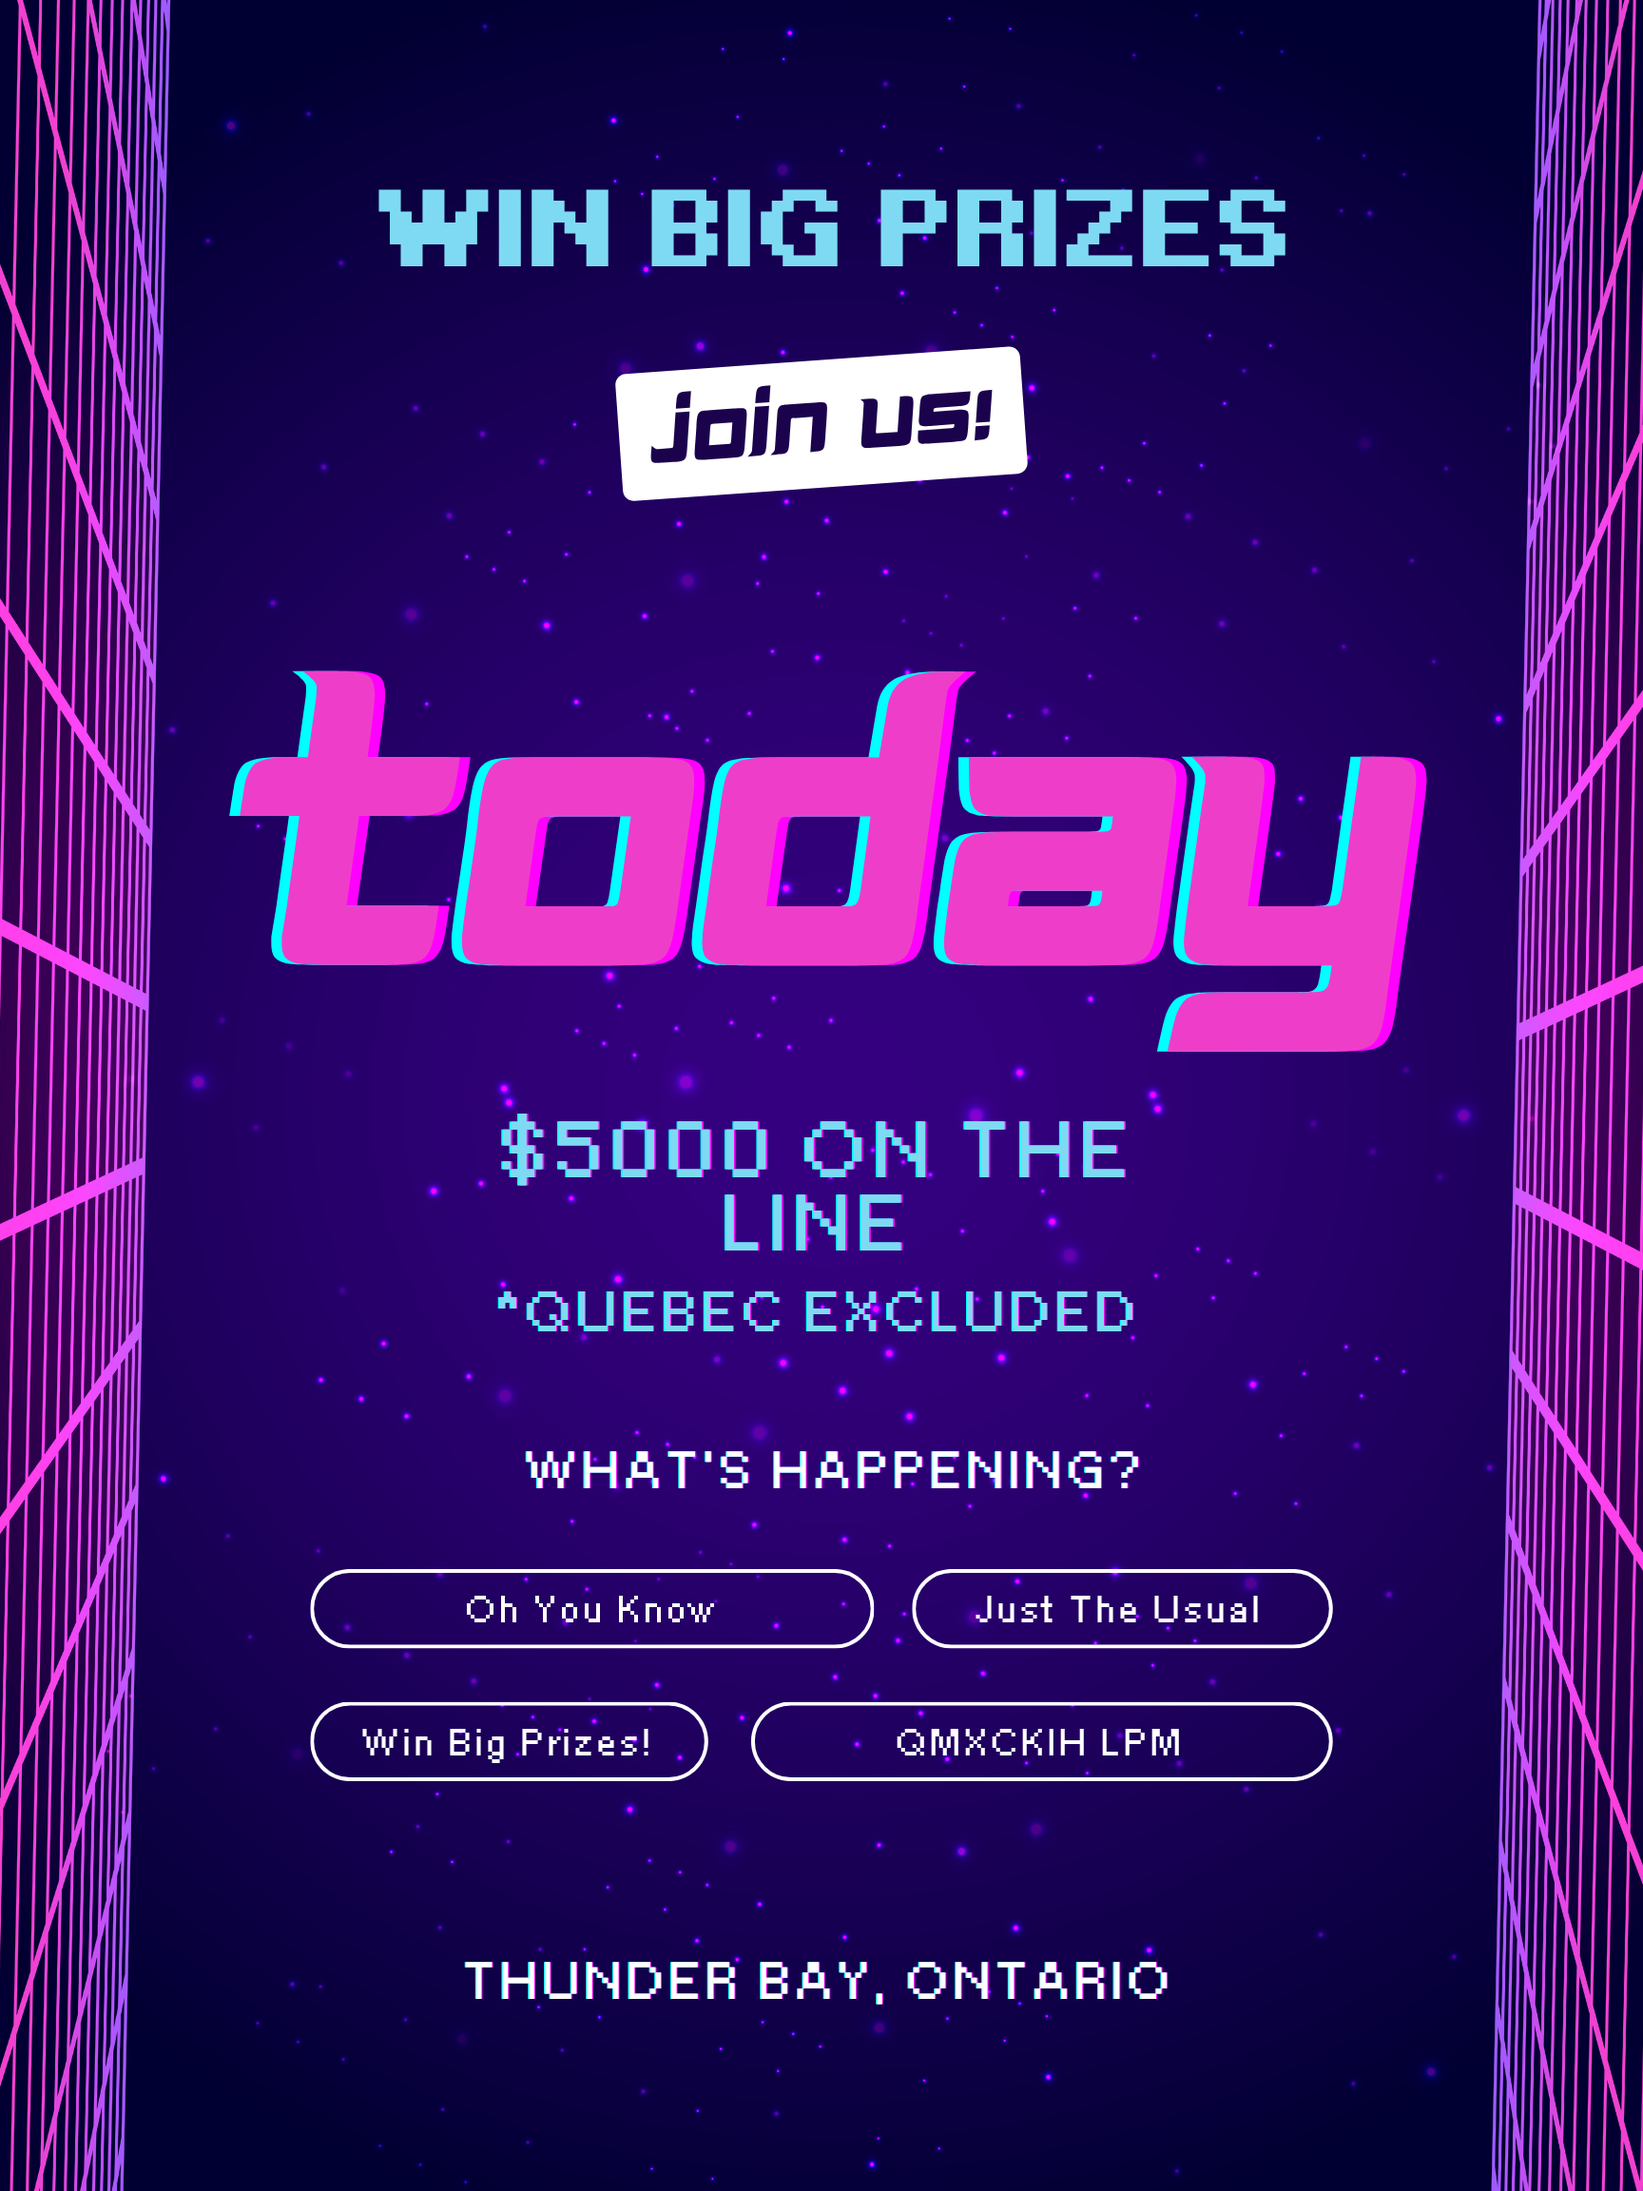
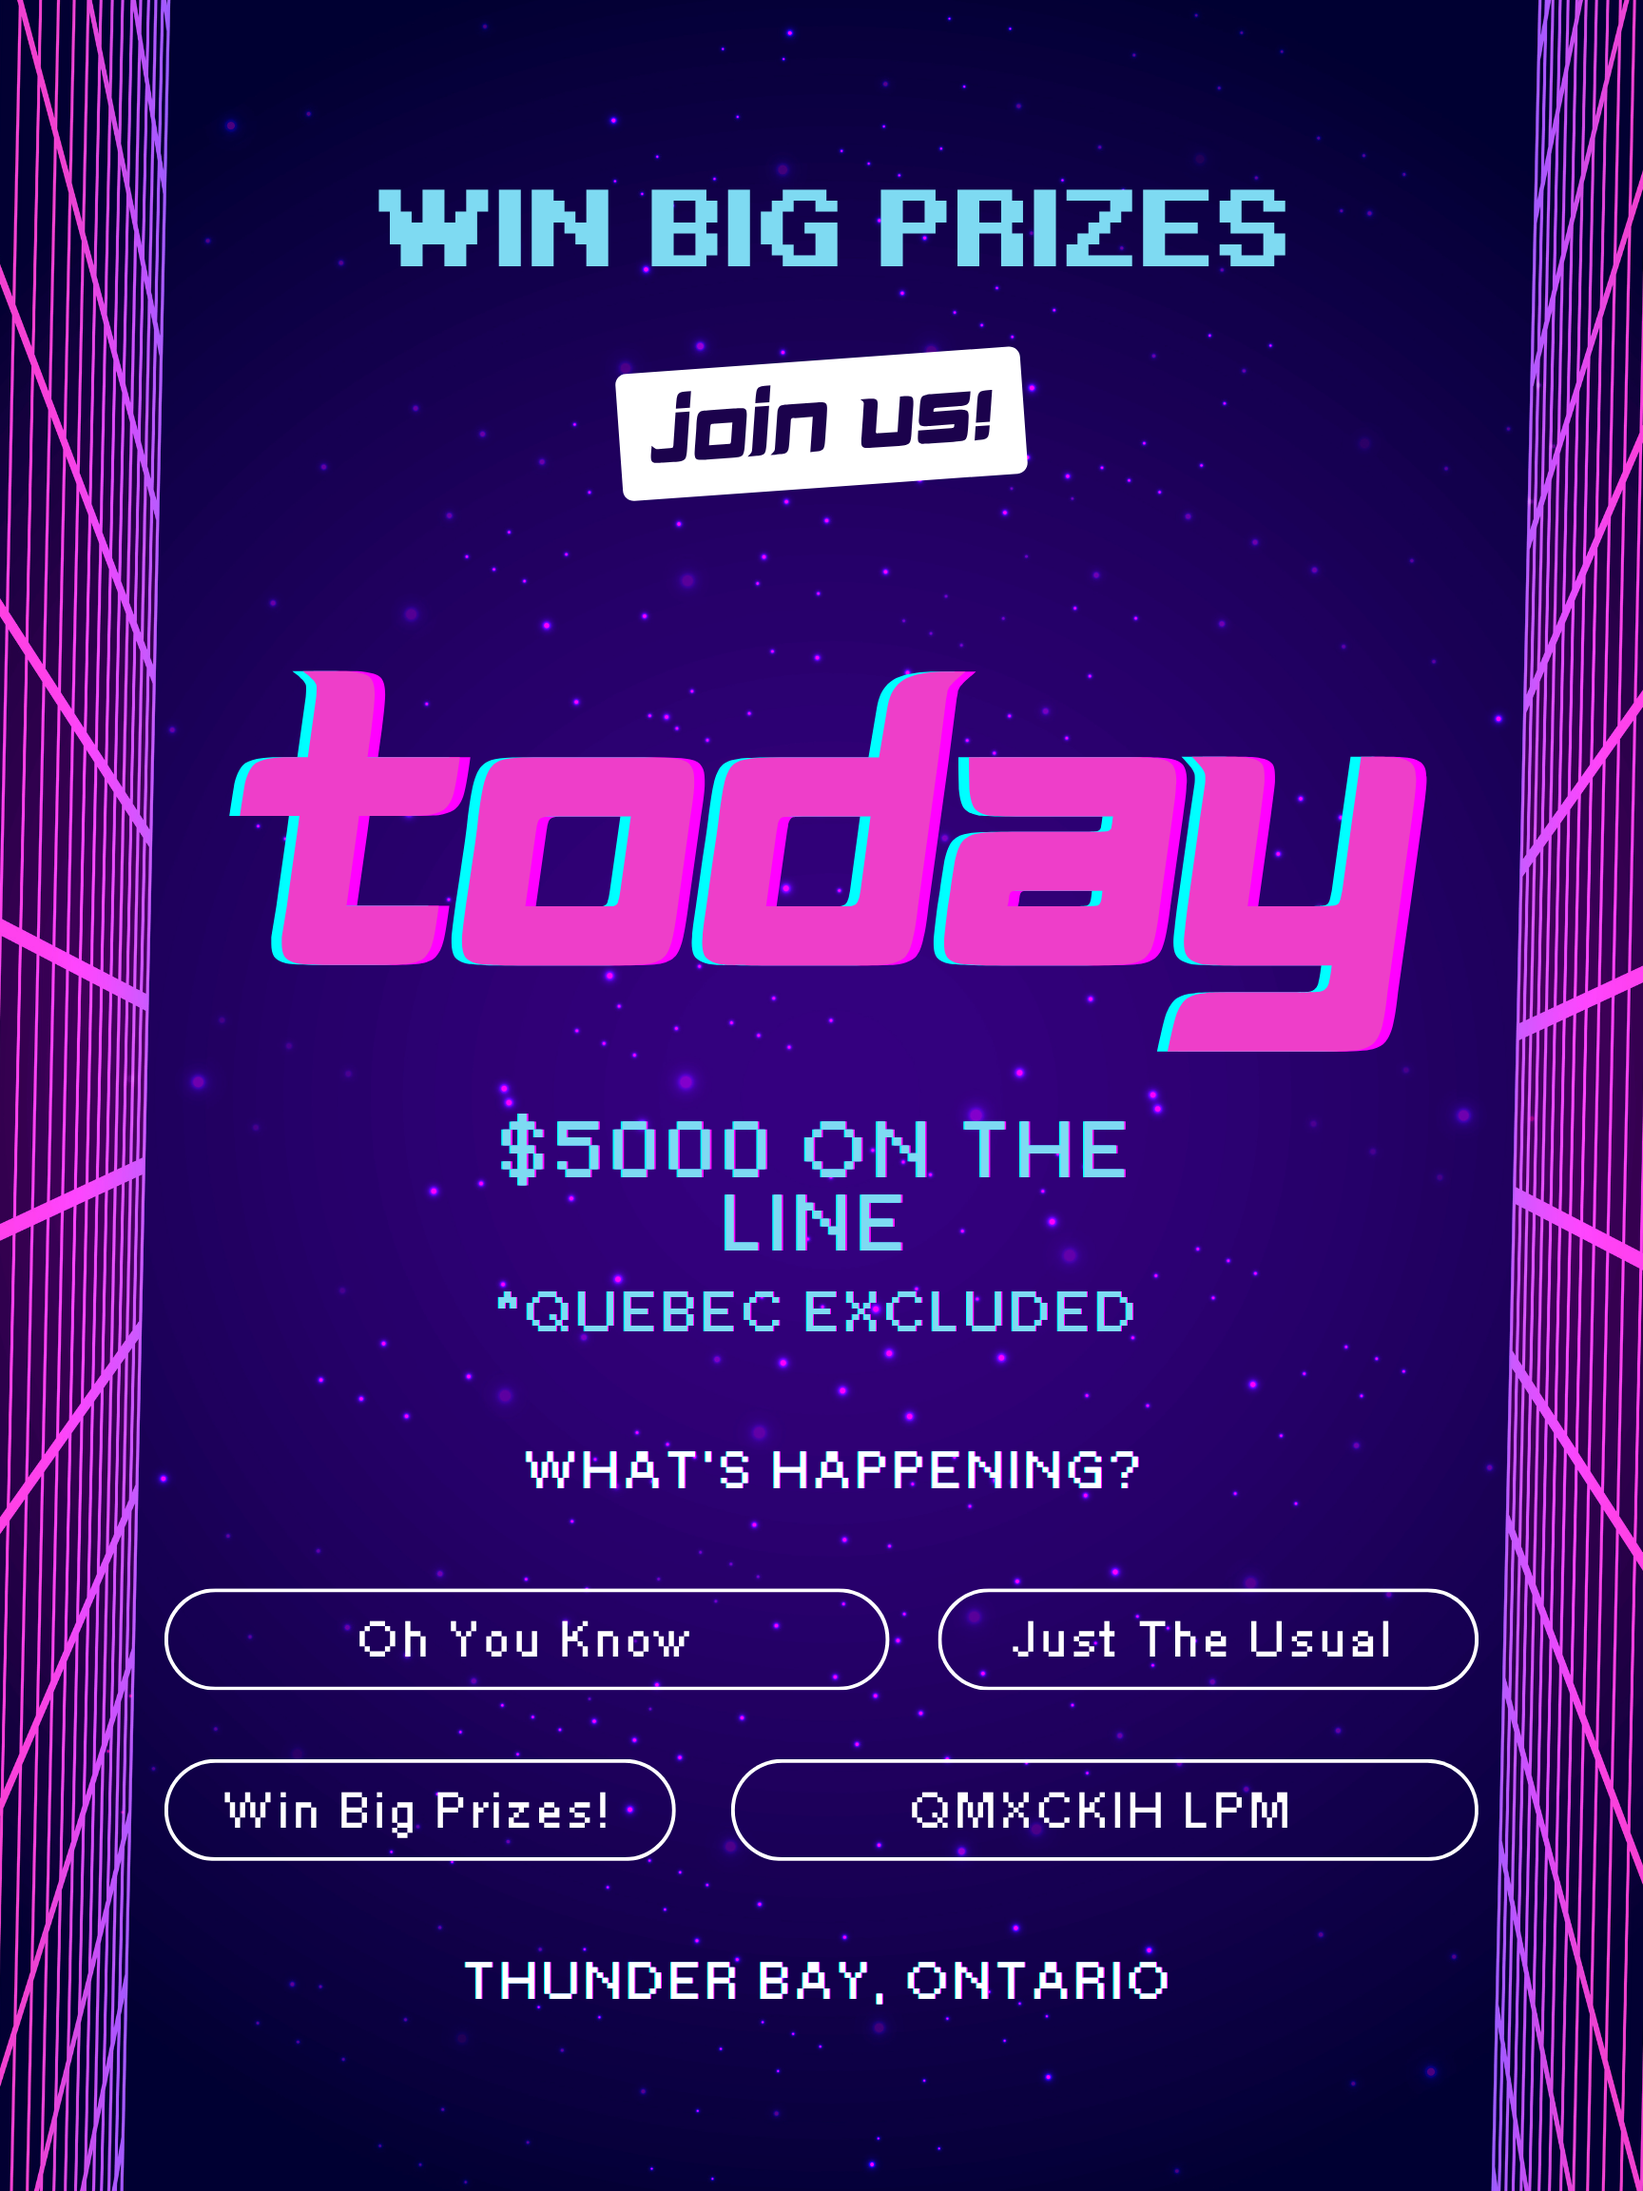
alert poster

Changed region(s): [[0.125, 0.7188, 0.8438, 0.8438]]

diff --git a/EscapeRoom/Game1.cs b/EscapeRoom/Game1.cs
@@ -36,11 +36,12 @@ namespace EscapeRoom
         Rectangle lightsBtn, nonogramBtn, fifteenBtn, backBtn;
         Rectangle lightsBack;
 
-        Texture2D sunPosterFront, todayPosterFront, skillsPosterFront, bdayPosterFront; // front textures
-        Texture2D sunPosterBack, todayPosterBack, skillsPosterBack, bdayPosterBack; // back textures
+        Texture2D sunPosterFront, todayPosterFront, alertPosterFront, bdayPosterFront; // front textures
+        Texture2D sunPosterBack, todayPosterBack, alertPosterBack, bdayPosterBack; // back textures
         Texture2D wallpaperTexture; // wallpaper background 
-        Rectangle sunRect, todayRect, skillsRect, bdayRect, maxPosterRect;
-        bool backSun, backToday, backSkills, backBday; // false = front, true = back;
+        Rectangle sunRect, todayRect, alertRect, bdayRect, maxPosterRect;
+        bool backSun, backToday, backAlert, backBday; // false = front, true = back;
+        bool lights; // true = on, false = off;
 
         LightGrid lightGrid;
         CellGrid cellGrid;
@@ -84,7 +85,7 @@ namespace EscapeRoom
             // NORMAL VALUES
             sunRect = new Rectangle(10, 122, 200, 256);
             todayRect = new Rectangle(212, 122, 192, 256);
-            skillsRect = new Rectangle(407, 122, 190, 256);
+            alertRect = new Rectangle(407, 122, 190, 256);
             bdayRect = new Rectangle(599, 122, 190, 256);
 
             // STRETCHED OUT VALUES
@@ -94,7 +95,8 @@ namespace EscapeRoom
             //bdayRect = new Rectangle(599, 54, 190, 396);
 
             maxPosterRect = new Rectangle(213, 0, 375, 500);
-            backSun = false; backToday = false; backSkills = false; backBday = false;
+            backSun = false; backToday = false; backAlert = false; backBday = false;
+            lights = true;
 
 
             // TODO: Add your initialization logic here
@@ -152,13 +154,13 @@ namespace EscapeRoom
             nonogramPhTexture = Content.Load<Texture2D>("Placeholders/nonogrambutton");
             fifteenPhTexture = Content.Load<Texture2D>("Placeholders/fifteenslidingpuzzle");
 
-            // posters
+            // day posters
             sunPosterFront = Content.Load<Texture2D>("Posters/SunFront");
             sunPosterBack = Content.Load<Texture2D>("Posters/SunBack");
             todayPosterFront = Content.Load<Texture2D>("Posters/TodayFront");
             todayPosterBack = Content.Load<Texture2D>("Posters/TodayBack");
-            skillsPosterFront = Content.Load<Texture2D>("Posters/SkillsFront");
-            skillsPosterBack = Content.Load<Texture2D>("Posters/SkillsBack");
+            alertPosterFront = Content.Load<Texture2D>("Posters/AlertFront");
+            alertPosterBack = Content.Load<Texture2D>("Posters/AlertBack");
             bdayPosterFront = Content.Load<Texture2D>("Posters/BirthdayFront");
             bdayPosterBack = Content.Load<Texture2D>("Posters/BirthdayBack");
         }
@@ -223,10 +225,12 @@ namespace EscapeRoom
                                     puzzle = 1;
                                 if (todayRect.Contains(mouseState.Position))
                                     puzzle = 2;
-                                if (skillsRect.Contains(mouseState.Position))
+                                if (alertRect.Contains(mouseState.Position))
                                     puzzle = 3;
                                 if (bdayRect.Contains(mouseState.Position))
                                     puzzle = 4;
+                                if (!sunRect.Contains(mouseState.Position) && !todayRect.Contains(mouseState.Position) && !alertRect.Contains(mouseState.Position) && !bdayRect.Contains(mouseState.Position))
+                                    lights = !lights;
                             }
                             if (mouseState.RightButton == ButtonState.Pressed && prevMouseState.RightButton == ButtonState.Released)
                             {
@@ -234,8 +238,8 @@ namespace EscapeRoom
                                     backSun = !backSun;
                                 if (todayRect.Contains(mouseState.Position))
                                     backToday = !backToday;
-                                if (skillsRect.Contains(mouseState.Position))
-                                    backSkills = !backSkills;
+                                if (alertRect.Contains(mouseState.Position))
+                                    backAlert = !backAlert;
                                 if (bdayRect.Contains(mouseState.Position))
                                     backBday = !backBday;
 
@@ -249,9 +253,9 @@ namespace EscapeRoom
                             BackButton();
                             backToday = BackToggle(maxPosterRect, backToday);
                             break;
-                        case 3: // skills poster
+                        case 3: // alert poster
                             BackButton();
-                            backSkills = BackToggle(maxPosterRect, backSkills);
+                            backAlert = BackToggle(maxPosterRect, backAlert);
                             break;
                         case 4: // birthday poster
                             BackButton();
@@ -325,60 +329,39 @@ namespace EscapeRoom
                     switch (puzzle)
                     {
                         case 0: // posters
-                            _spriteBatch.Draw(rectTexture, window, Color.LightSkyBlue);
-
-                            if (backSun)
-                                _spriteBatch.Draw(sunPosterBack, sunRect, Color.White);
+                            if (lights)
+                            {
+                                _spriteBatch.Draw(rectTexture, window, Color.LightSkyBlue);
+                            }
                             else
-                                _spriteBatch.Draw(sunPosterFront, sunRect, Color.White);
-
-                            if (backToday)
-                                _spriteBatch.Draw(todayPosterBack, todayRect, Color.White);
-                            else
-                                _spriteBatch.Draw(todayPosterFront, todayRect, Color.White);
-
-                            if (backSkills)
-                                _spriteBatch.Draw(skillsPosterBack, skillsRect, Color.White);
-                            else
-                                _spriteBatch.Draw(skillsPosterFront, skillsRect, Color.White);
-
-                            if (backBday)
-                                _spriteBatch.Draw(bdayPosterBack, bdayRect, Color.White);
-                            else
-                                _spriteBatch.Draw(bdayPosterFront, bdayRect, Color.White);
-                                break;
+                            {
+                                _spriteBatch.Draw(rectTexture, window, Color.DarkSlateGray);
+                            }
+                            DrawPoster(backSun, sunPosterFront, sunPosterBack, sunRect);
+                            DrawPoster(backToday, todayPosterFront, todayPosterBack, todayRect);
+                            DrawPoster(backAlert, alertPosterFront, alertPosterBack, alertRect);
+                            DrawPoster(backBday, bdayPosterFront, bdayPosterBack, bdayRect);
+                            break;
                         case 1: // sun poster
-                            _spriteBatch.Draw(rectTexture, window, Color.LightSkyBlue);
+                            LightsToggle();
                             _spriteBatch.Draw(backTexture, backBtn, Color.White);
-                            if (backSun)
-                                _spriteBatch.Draw(sunPosterBack, maxPosterRect, Color.White);
-                            else
-                                _spriteBatch.Draw(sunPosterFront, maxPosterRect, Color.White);
+                            DrawPoster(backSun, sunPosterFront, sunPosterBack, maxPosterRect);
                             break;
                         case 2: // today poster
-                            _spriteBatch.Draw(rectTexture, window, Color.LightSkyBlue);
+                            LightsToggle();
                             _spriteBatch.Draw(backTexture, backBtn, Color.White);
-                            if (backToday)
-                                _spriteBatch.Draw(todayPosterBack, maxPosterRect, Color.White);
-                            else
-                                _spriteBatch.Draw(todayPosterFront, maxPosterRect, Color.White);
+                            DrawPoster(backToday, todayPosterFront, todayPosterBack, maxPosterRect);
                             break;
-                        case 3: // poster skills
-                            _spriteBatch.Draw(rectTexture, window, Color.LightSkyBlue);
+                        case 3: // alert poster
+                            LightsToggle();
                             _spriteBatch.Draw(backTexture, backBtn, Color.White);
-                            if (backSkills)
-                                _spriteBatch.Draw(skillsPosterBack, maxPosterRect, Color.White);
-                            else
-                                _spriteBatch.Draw(skillsPosterFront, maxPosterRect, Color.White);
-                                break;
+                            DrawPoster(backAlert, alertPosterFront, alertPosterBack, maxPosterRect);
+                            break;
                         case 4: // bday poster
-                            _spriteBatch.Draw(rectTexture, window, Color.LightSkyBlue);
+                            LightsToggle();
                             _spriteBatch.Draw(backTexture, backBtn, Color.White);
-                            if (backBday)
-                                _spriteBatch.Draw(bdayPosterBack, maxPosterRect, Color.White);
-                            else
-                                _spriteBatch.Draw(bdayPosterFront, maxPosterRect, Color.White);
-                                break;
+                            DrawPoster(backBday, bdayPosterFront, bdayPosterBack, maxPosterRect);
+                            break;
                     }
                     break;
                 case Screen.FunPuzzles:
@@ -414,6 +397,14 @@ namespace EscapeRoom
             }
         }
 
+        public void LightsToggle()
+        {
+            if (lights)
+                _spriteBatch.Draw(rectTexture, window, Color.LightSkyBlue);
+            else
+                _spriteBatch.Draw(rectTexture, window, Color.DarkSlateGray);
+        }
+
         public bool BackToggle(Rectangle poster, bool toggle)
         {
             if (mouseState.RightButton == ButtonState.Pressed && prevMouseState.RightButton == ButtonState.Released)
@@ -422,6 +413,14 @@ namespace EscapeRoom
                     toggle = !toggle;
             }
             return toggle;
+        }
+
+        public void DrawPoster(bool toggle, Texture2D posterFront, Texture2D posterBack, Rectangle posterRect)
+        {
+            if (toggle)
+                _spriteBatch.Draw(posterBack, posterRect, Color.White);
+            else
+                _spriteBatch.Draw(posterFront, posterRect, Color.White);
         }
 
 
